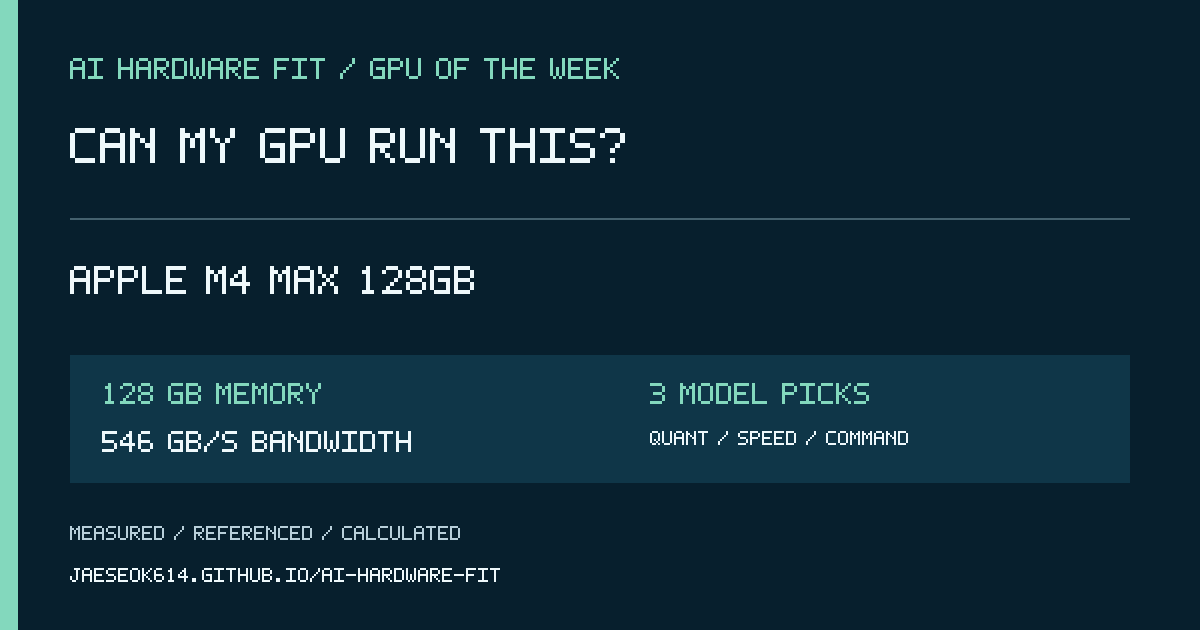
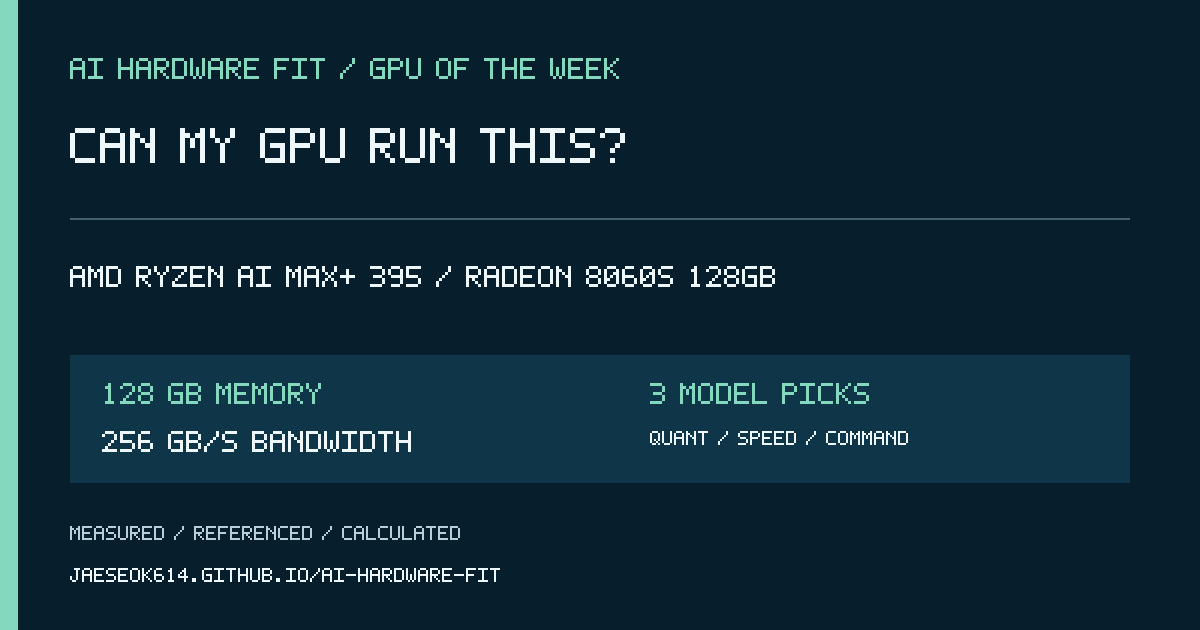
content: publish weekly GPU spotlight

Changed region(s): [[0.0617, 0.4222, 0.6475, 0.4825], [0.0925, 0.6635, 0.1233, 0.7238]]

diff --git a/docs/model-value/index.html b/docs/model-value/index.html
@@ -1,1 +1,1 @@
-<!doctype html><html lang="ko"><head><meta charset="utf-8"><meta name="viewport" content="width=device-width,initial-scale=1"><title>Weekly local-model value report — 2026-11-09</title><meta name="description" content="Best local AI models by VRAM, compared within MMLU-Pro."><style>:root{color-scheme:light dark}body{margin:0;background:#f2f3f1;color:#17202a;font:15px/1.6 system-ui,sans-serif}.wrap{max-width:980px;margin:auto;padding:42px 22px 80px}.hero,.panel{background:#fff;border:1px solid #cfd5d9;border-radius:8px;padding:24px;margin-bottom:16px}h1{font-size:clamp(1.9rem,5vw,3.4rem);line-height:1.08;margin:.2em 0}.kicker{color:#14745a;font-weight:800;letter-spacing:.08em}.note{color:#5c6873}.changes{border-left:4px solid #14745a;padding-left:18px}table{width:100%;border-collapse:collapse}th,td{text-align:left;padding:10px;border-top:1px solid #cfd5d9}a{color:#16577a}.actions{display:flex;gap:10px;flex-wrap:wrap}.actions a{background:#16577a;color:#fff;padding:10px 14px;text-decoration:none;border-radius:5px}@media(prefers-color-scheme:dark){body{background:#14171a;color:#e7eaee}.hero,.panel{background:#21262b;border-color:#4a535c}.note{color:#9aa4ae}a{color:#6fb2e0}}</style></head><body><main class="wrap"><section class="hero"><span class="kicker">AI HARDWARE FIT · WEEKLY</span><h1>VRAM별 최고 로컬 모델</h1><p>2026-11-09 · MMLU-Pro · Q4_K_M · 4K context · concurrency 1 · llama.cpp</p><p class="note">같은 공개 벤치마크 안에서만 비교합니다. 세부 평가 조건은 각 출처에서 확인하세요.</p><div class="actions"><a href="https://jaeseok614.github.io/ai-hardware-fit/?lang=ko#valueFrontier">대화형 차트</a><a href="https://jaeseok614.github.io/ai-hardware-fit/?lang=en#valueFrontier">English</a></div></section><section class="panel changes"><h2>이번 주 변경</h2><ul><li>지난 스냅샷 이후 모델·점수·VRAM 추천 변경이 없습니다.</li></ul></section><section class="panel"><h2>VRAM별 최고 점수</h2><table><thead><tr><th>VRAM</th><th>1순위</th><th>2순위</th></tr></thead><tbody><tr><th>8GB</th><td>Qwen3.5 4B</td><td>Granite 4.2 8B</td></tr><tr><th>12GB</th><td>Qwen3.5 9B</td><td>Qwen3.5 4B</td></tr><tr><th>16GB</th><td>Qwen3.5 9B</td><td>Qwen3.5 4B</td></tr><tr><th>24GB</th><td>Qwen3.6 27B</td><td>Qwen3.5 27B</td></tr><tr><th>32GB</th><td>Qwen3.6 27B</td><td>Qwen3.5 27B</td></tr><tr><th>48GB</th><td>Qwen3.6 27B</td><td>Qwen3.5 27B</td></tr><tr><th>80GB</th><td>Qwen3.6 27B</td><td>Qwen3.5 27B</td></tr><tr><th>128GB</th><td>Qwen3.5 122B A10B</td><td>Qwen3.6 27B</td></tr></tbody></table></section><section class="panel"><h2>VRAM–성능 프런티어</h2><ul><li><a href="https://arxiv.org/abs/2412.15115">Qwen2.5 0.5B Instruct</a> — 1.6GB · MMLU-Pro 15</li><li><a href="https://github.com/LG-AI-EXAONE/EXAONE-4.0">EXAONE 4.0 1.2B</a> — 2.0GB · MMLU-Pro 59.3</li><li><a href="https://huggingface.co/ibm-granite/granite-4.2-8b">Granite 4.2 3B</a> — 3.5GB · MMLU-Pro 67.84</li><li><a href="https://huggingface.co/Qwen/Qwen3.5-9B">Qwen3.5 4B</a> — 4.8GB · MMLU-Pro 79.1</li><li><a href="https://huggingface.co/Qwen/Qwen3.5-9B">Qwen3.5 9B</a> — 8.7GB · MMLU-Pro 82.5</li><li><a href="https://huggingface.co/Qwen/Qwen3.6-27B">Qwen3.6 27B</a> — 22.2GB · MMLU-Pro 86.2</li><li><a href="https://huggingface.co/Qwen/Qwen3.5-35B-A3B">Qwen3.5 122B A10B</a> — 84.2GB · MMLU-Pro 86.7</li><li><a href="https://huggingface.co/Qwen/Qwen3.6-27B">Qwen3.5 397B A17B</a> — 263.0GB · MMLU-Pro 87.8</li></ul></section></main></body></html>
+<!doctype html><html lang="ko"><head><meta charset="utf-8"><meta name="viewport" content="width=device-width,initial-scale=1"><title>Weekly local-model value report — 2026-11-16</title><meta name="description" content="Best local AI models by VRAM, compared within MMLU-Pro."><style>:root{color-scheme:light dark}body{margin:0;background:#f2f3f1;color:#17202a;font:15px/1.6 system-ui,sans-serif}.wrap{max-width:980px;margin:auto;padding:42px 22px 80px}.hero,.panel{background:#fff;border:1px solid #cfd5d9;border-radius:8px;padding:24px;margin-bottom:16px}h1{font-size:clamp(1.9rem,5vw,3.4rem);line-height:1.08;margin:.2em 0}.kicker{color:#14745a;font-weight:800;letter-spacing:.08em}.note{color:#5c6873}.changes{border-left:4px solid #14745a;padding-left:18px}table{width:100%;border-collapse:collapse}th,td{text-align:left;padding:10px;border-top:1px solid #cfd5d9}a{color:#16577a}.actions{display:flex;gap:10px;flex-wrap:wrap}.actions a{background:#16577a;color:#fff;padding:10px 14px;text-decoration:none;border-radius:5px}@media(prefers-color-scheme:dark){body{background:#14171a;color:#e7eaee}.hero,.panel{background:#21262b;border-color:#4a535c}.note{color:#9aa4ae}a{color:#6fb2e0}}</style></head><body><main class="wrap"><section class="hero"><span class="kicker">AI HARDWARE FIT · WEEKLY</span><h1>VRAM별 최고 로컬 모델</h1><p>2026-11-16 · MMLU-Pro · Q4_K_M · 4K context · concurrency 1 · llama.cpp</p><p class="note">같은 공개 벤치마크 안에서만 비교합니다. 세부 평가 조건은 각 출처에서 확인하세요.</p><div class="actions"><a href="https://jaeseok614.github.io/ai-hardware-fit/?lang=ko#valueFrontier">대화형 차트</a><a href="https://jaeseok614.github.io/ai-hardware-fit/?lang=en#valueFrontier">English</a></div></section><section class="panel changes"><h2>이번 주 변경</h2><ul><li>점수·메타데이터 변경: Qwen3.8 27B, Qwen3.8-Flash-Next</li></ul></section><section class="panel"><h2>VRAM별 최고 점수</h2><table><thead><tr><th>VRAM</th><th>1순위</th><th>2순위</th></tr></thead><tbody><tr><th>8GB</th><td>Qwen3.5 4B</td><td>Granite 4.2 8B</td></tr><tr><th>12GB</th><td>Qwen3.5 9B</td><td>Qwen3.5 4B</td></tr><tr><th>16GB</th><td>Qwen3.5 9B</td><td>Qwen3.5 4B</td></tr><tr><th>24GB</th><td>Qwen3.6 27B</td><td>Qwen3.5 27B</td></tr><tr><th>32GB</th><td>Qwen3.6 27B</td><td>Qwen3.5 27B</td></tr><tr><th>48GB</th><td>Qwen3.6 27B</td><td>Qwen3.5 27B</td></tr><tr><th>80GB</th><td>Qwen3.6 27B</td><td>Qwen3.5 27B</td></tr><tr><th>128GB</th><td>Qwen3.5 122B A10B</td><td>Qwen3.6 27B</td></tr></tbody></table></section><section class="panel"><h2>VRAM–성능 프런티어</h2><ul><li><a href="https://arxiv.org/abs/2412.15115">Qwen2.5 0.5B Instruct</a> — 1.6GB · MMLU-Pro 15</li><li><a href="https://github.com/LG-AI-EXAONE/EXAONE-4.0">EXAONE 4.0 1.2B</a> — 2.0GB · MMLU-Pro 59.3</li><li><a href="https://huggingface.co/ibm-granite/granite-4.2-8b">Granite 4.2 3B</a> — 3.5GB · MMLU-Pro 67.84</li><li><a href="https://huggingface.co/Qwen/Qwen3.5-9B">Qwen3.5 4B</a> — 4.8GB · MMLU-Pro 79.1</li><li><a href="https://huggingface.co/Qwen/Qwen3.5-9B">Qwen3.5 9B</a> — 8.7GB · MMLU-Pro 82.5</li><li><a href="https://huggingface.co/Qwen/Qwen3.6-27B">Qwen3.6 27B</a> — 22.2GB · MMLU-Pro 86.2</li><li><a href="https://huggingface.co/Qwen/Qwen3.5-35B-A3B">Qwen3.5 122B A10B</a> — 84.2GB · MMLU-Pro 86.7</li><li><a href="https://huggingface.co/Qwen/Qwen3.6-27B">Qwen3.5 397B A17B</a> — 263.0GB · MMLU-Pro 87.8</li></ul></section></main></body></html>

diff --git a/docs/spotlights/index.html b/docs/spotlights/index.html
@@ -1,1 +1,1 @@
-<!doctype html><html lang="en"><head><meta charset="utf-8"><meta name="viewport" content="width=device-width,initial-scale=1"><title>GPU of the week: Apple M4 Max 128GB 통합메모리 — AI Hardware Fit</title><meta name="description" content="Can my GPU run this? Weekly Apple M4 Max 128GB 통합메모리 fit check."><meta property="og:title" content="Can my GPU run this? Apple M4 Max 128GB 통합메모리"><meta property="og:description" content="128 GB memory · 546 GB/s bandwidth · model fit, quantization, speed range, and run command."><meta property="og:image" content="https://jaeseok614.github.io/ai-hardware-fit/spotlights/latest.png"><style>body{margin:0;background:#071f2d;color:#eef8fb;font:16px/1.6 system-ui,sans-serif}.wrap{max-width:960px;margin:auto;padding:48px 24px 80px}img{width:100%;height:auto;border:1px solid #47616d}h1{font-size:clamp(2rem,5vw,4rem);line-height:1.05}a{color:#83d8bd}.actions{display:flex;gap:12px;flex-wrap:wrap}.actions a{background:#0f766e;color:white;padding:12px 18px;text-decoration:none;border-radius:8px}.note{color:#bed2dc}</style></head><body><main class="wrap"><p>AI HARDWARE FIT · 2026-11-09</p><h1>Can my GPU run this?<br>Apple M4 Max 128GB 통합메모리</h1><img src="./latest.png" alt="Apple M4 Max 128GB 통합메모리 share card"><p>128 GB memory · 546 GB/s memory bandwidth</p><div class="actions"><a href="https://jaeseok614.github.io/ai-hardware-fit/?lang=ko&gpu=m4max-128">한국어 결과</a><a href="https://jaeseok614.github.io/ai-hardware-fit/?lang=en&gpu=m4max-128">English result</a><a href="./posts/2026-11-09-m4max-128.md">Post copy</a></div><p class="note">Speed is a planning range. Open the result to see whether it is measured, calibrated, referenced, or calculated.</p></main></body></html>
+<!doctype html><html lang="en"><head><meta charset="utf-8"><meta name="viewport" content="width=device-width,initial-scale=1"><title>GPU of the week: AMD Ryzen AI Max+ 395 / Radeon 8060S 128GB 통합메모리 — AI Hardware Fit</title><meta name="description" content="Can my GPU run this? Weekly AMD Ryzen AI Max+ 395 / Radeon 8060S 128GB 통합메모리 fit check."><meta property="og:title" content="Can my GPU run this? AMD Ryzen AI Max+ 395 / Radeon 8060S 128GB 통합메모리"><meta property="og:description" content="128 GB memory · 256 GB/s bandwidth · model fit, quantization, speed range, and run command."><meta property="og:image" content="https://jaeseok614.github.io/ai-hardware-fit/spotlights/latest.png"><style>body{margin:0;background:#071f2d;color:#eef8fb;font:16px/1.6 system-ui,sans-serif}.wrap{max-width:960px;margin:auto;padding:48px 24px 80px}img{width:100%;height:auto;border:1px solid #47616d}h1{font-size:clamp(2rem,5vw,4rem);line-height:1.05}a{color:#83d8bd}.actions{display:flex;gap:12px;flex-wrap:wrap}.actions a{background:#0f766e;color:white;padding:12px 18px;text-decoration:none;border-radius:8px}.note{color:#bed2dc}</style></head><body><main class="wrap"><p>AI HARDWARE FIT · 2026-11-16</p><h1>Can my GPU run this?<br>AMD Ryzen AI Max+ 395 / Radeon 8060S 128GB 통합메모리</h1><img src="./latest.png" alt="AMD Ryzen AI Max+ 395 / Radeon 8060S 128GB 통합메모리 share card"><p>128 GB memory · 256 GB/s memory bandwidth</p><div class="actions"><a href="https://jaeseok614.github.io/ai-hardware-fit/?lang=ko&gpu=ryzen-ai-max-plus-395-128">한국어 결과</a><a href="https://jaeseok614.github.io/ai-hardware-fit/?lang=en&gpu=ryzen-ai-max-plus-395-128">English result</a><a href="./posts/2026-11-16-ryzen-ai-max-plus-395-128.md">Post copy</a></div><p class="note">Speed is a planning range. Open the result to see whether it is measured, calibrated, referenced, or calculated.</p></main></body></html>

diff --git a/docs/model-value/reports/2026-11-16.md b/docs/model-value/reports/2026-11-16.md
@@ -1,0 +1,37 @@
+# Weekly local-model value report — 2026-11-16
+
+같은 공개 벤치마크 안에서만 모델을 비교한 AI Hardware Fit 주간 요약입니다.
+
+- 비교 지표: **MMLU-Pro** (33개 모델)
+- 메모리 기준: **Q4_K_M · 4K context · concurrency 1 · llama.cpp**
+- 주의: 공개 점수의 세부 평가 조건은 모델마다 다를 수 있으므로 각 출처를 함께 확인하세요.
+
+## 이번 주 변경
+
+- 점수·메타데이터 변경: Qwen3.8 27B, Qwen3.8-Flash-Next
+
+## VRAM별 최고 점수
+
+| VRAM | 1순위 | 2순위 |
+| ---: | --- | --- |
+| 8GB | Qwen3.5 4B | Granite 4.2 8B |
+| 12GB | Qwen3.5 9B | Qwen3.5 4B |
+| 16GB | Qwen3.5 9B | Qwen3.5 4B |
+| 24GB | Qwen3.6 27B | Qwen3.5 27B |
+| 32GB | Qwen3.6 27B | Qwen3.5 27B |
+| 48GB | Qwen3.6 27B | Qwen3.5 27B |
+| 80GB | Qwen3.6 27B | Qwen3.5 27B |
+| 128GB | Qwen3.5 122B A10B | Qwen3.6 27B |
+
+## VRAM–성능 프런티어
+
+- [Qwen2.5 0.5B Instruct](https://arxiv.org/abs/2412.15115) — 1.6GB · MMLU-Pro 15
+- [EXAONE 4.0 1.2B](https://github.com/LG-AI-EXAONE/EXAONE-4.0) — 2.0GB · MMLU-Pro 59.3
+- [Granite 4.2 3B](https://huggingface.co/ibm-granite/granite-4.2-8b) — 3.5GB · MMLU-Pro 67.84
+- [Qwen3.5 4B](https://huggingface.co/Qwen/Qwen3.5-9B) — 4.8GB · MMLU-Pro 79.1
+- [Qwen3.5 9B](https://huggingface.co/Qwen/Qwen3.5-9B) — 8.7GB · MMLU-Pro 82.5
+- [Qwen3.6 27B](https://huggingface.co/Qwen/Qwen3.6-27B) — 22.2GB · MMLU-Pro 86.2
+- [Qwen3.5 122B A10B](https://huggingface.co/Qwen/Qwen3.5-35B-A3B) — 84.2GB · MMLU-Pro 86.7
+- [Qwen3.5 397B A17B](https://huggingface.co/Qwen/Qwen3.6-27B) — 263.0GB · MMLU-Pro 87.8
+
+프런티어는 같은 그룹에서 더 적은 VRAM을 쓰면서 같거나 높은 점수를 내는 다른 모델이 없는 경우입니다. [대화형 차트 열기](https://jaeseok614.github.io/ai-hardware-fit/?lang=ko#valueFrontier) · [Open in English](https://jaeseok614.github.io/ai-hardware-fit/?lang=en#valueFrontier)

diff --git a/docs/spotlights/posts/2026-11-16-ryzen-ai-max-plus-395-128.md b/docs/spotlights/posts/2026-11-16-ryzen-ai-max-plus-395-128.md
@@ -1,0 +1,30 @@
+# 2026-11-16 GPU Spotlight — AMD Ryzen AI Max+ 395 / Radeon 8060S 128GB 통합메모리
+
+![AMD Ryzen AI Max+ 395 / Radeon 8060S 128GB 통합메모리 share card](../cards/2026-11-16-ryzen-ai-max-plus-395-128.png)
+
+## 한국어 게시 문안
+
+이번 주 GPU는 **AMD Ryzen AI Max+ 395 / Radeon 8060S 128GB 통합메모리**입니다.
+
+VRAM 128GB, 메모리 대역폭 256GB/s 기준으로 어떤 AI 모델이 들어가고 어떤 양자화가 적절한지, 예상 속도와 실행 명령어까지 한 번에 확인해 보세요.
+
+https://jaeseok614.github.io/ai-hardware-fit/?lang=ko&gpu=ryzen-ai-max-plus-395-128
+
+> 속도는 계획용 범위입니다. 결과 화면에서 동일 조건 실측, 실측 보정, 관련 실측, 외부 참고, 계산 추정을 구분해 표시합니다.
+
+## English post copy
+
+This week's GPU is **AMD Ryzen AI Max+ 395 / Radeon 8060S 128GB unified memory**.
+
+Can my GPU run this? Check which AI models fit 128 GB of memory, the recommended quantization, expected speed range, and a ready-to-run command.
+
+https://jaeseok614.github.io/ai-hardware-fit/?lang=en&gpu=ryzen-ai-max-plus-395-128
+
+> Speed is a planning range, not a guarantee. Each result identifies exact measurements, calibrated estimates, related evidence, external references, or formula-only estimates.
+
+## Source facts
+
+- Memory: 128 GB
+- Memory bandwidth: 256 GB/s
+- Hardware source: https://www.amd.com/en/products/processors/laptop/ryzen/ai-300-series/amd-ryzen-ai-max-plus-395.html
+- Calculator: https://jaeseok614.github.io/ai-hardware-fit/?lang=en&gpu=ryzen-ai-max-plus-395-128

diff --git a/docs/spotlights/latest.md b/docs/spotlights/latest.md
@@ -1,7 +1,7 @@
-# GPU of the week: Apple M4 Max 128GB 통합메모리
+# GPU of the week: AMD Ryzen AI Max+ 395 / Radeon 8060S 128GB 통합메모리
 
-![Apple M4 Max 128GB 통합메모리 share card](./latest.png)
+![AMD Ryzen AI Max+ 395 / Radeon 8060S 128GB 통합메모리 share card](./latest.png)
 
-Published 2026-11-09. [Open the Korean result](https://jaeseok614.github.io/ai-hardware-fit/?lang=ko&gpu=m4max-128) · [Open the English result](https://jaeseok614.github.io/ai-hardware-fit/?lang=en&gpu=m4max-128) · [Copy the Korean/English post text](./posts/2026-11-09-m4max-128.md)
+Published 2026-11-16. [Open the Korean result](https://jaeseok614.github.io/ai-hardware-fit/?lang=ko&gpu=ryzen-ai-max-plus-395-128) · [Open the English result](https://jaeseok614.github.io/ai-hardware-fit/?lang=en&gpu=ryzen-ai-max-plus-395-128) · [Copy the Korean/English post text](./posts/2026-11-16-ryzen-ai-max-plus-395-128.md)
 
 The card rotates automatically every Monday at 09:00 KST. Figures are planning estimates; the result page identifies the evidence level behind each speed range.

diff --git a/docs/model-value/latest.md b/docs/model-value/latest.md
@@ -1,4 +1,4 @@
-# Weekly local-model value report — 2026-11-09
+# Weekly local-model value report — 2026-11-16
 
 같은 공개 벤치마크 안에서만 모델을 비교한 AI Hardware Fit 주간 요약입니다.
 
@@ -8,7 +8,7 @@
 
 ## 이번 주 변경
 
-- 지난 스냅샷 이후 모델·점수·VRAM 추천 변경이 없습니다.
+- 점수·메타데이터 변경: Qwen3.8 27B, Qwen3.8-Flash-Next
 
 ## VRAM별 최고 점수
 

diff --git a/docs/spotlights/README.md b/docs/spotlights/README.md
@@ -2,6 +2,7 @@
 
 Every Monday, this directory receives a share card plus ready-to-post Korean and English copy.
 
+- [2026-11-16-ryzen-ai-max-plus-395-128](./posts/2026-11-16-ryzen-ai-max-plus-395-128.md)
 - [2026-11-09-m4max-128](./posts/2026-11-09-m4max-128.md)
 - [2026-11-02-rx7900xtx-24](./posts/2026-11-02-rx7900xtx-24.md)
 - [2026-10-26-rtx5090-32](./posts/2026-10-26-rtx5090-32.md)

diff --git a/docs/model-value/README.md b/docs/model-value/README.md
@@ -2,6 +2,7 @@
 
 Generated from the same Q4_K_M VRAM baseline used by the interactive benchmark workspace.
 
+- [2026-11-16](./reports/2026-11-16.md)
 - [2026-11-09](./reports/2026-11-09.md)
 - [2026-11-02](./reports/2026-11-02.md)
 - [2026-10-26](./reports/2026-10-26.md)
